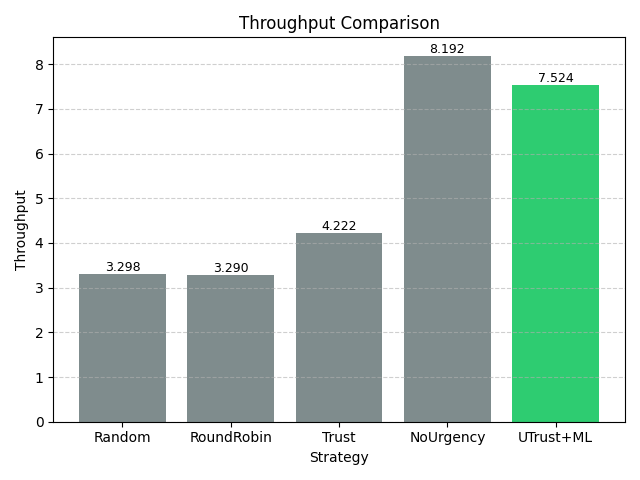
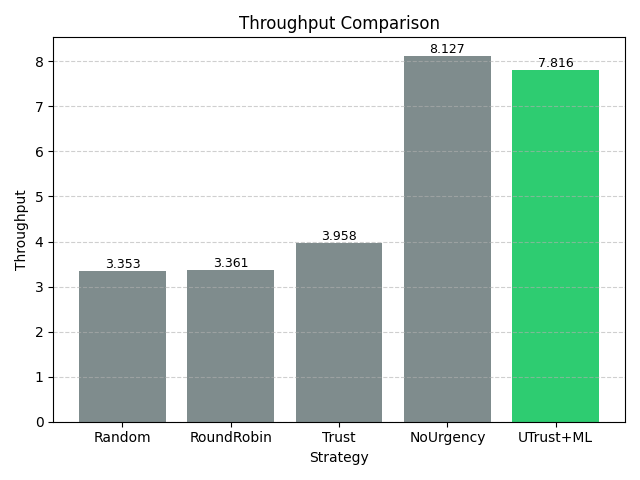
v12: Added evaluation plots and variability analysis

diff --git a/i_visualization/plots.py b/i_visualization/plots.py
@@ -14,7 +14,6 @@ scalability_path = os.path.join(root_path, "scalability_results.csv")
 
 detailed_path = os.path.join(root_path, "detailed_runs.csv")
 
-
 # -----------------------------
 # SAFETY CHECK
 # -----------------------------
@@ -29,6 +28,8 @@ if not os.path.exists(detailed_path):
     detailed_available = False
 else:
     detailed_available = True
+
+detailed = pd.read_csv(detailed_path)
 
 # -----------------------------
 # LOAD DATA
@@ -194,6 +195,126 @@ if detailed_available:
     plt.tight_layout()
     plt.savefig(os.path.join(base_path, "detailed_runs_combined.png"))
 
+
+
+# -----------------------------
+# BOX PLOTS (STABILITY)
+# -----------------------------
+for metric in ["latency", "throughput", "fairness"]:
+    plt.figure()
+
+    detailed.boxplot(column=metric, by="strategy")
+
+    plt.title(f"{metric.capitalize()} Distribution (Box Plot)")
+    plt.suptitle("")  # removes default pandas title
+    plt.xlabel("Strategy")
+    plt.ylabel(metric.capitalize())
+
+    plt.grid(axis='y', linestyle='--', alpha=0.6)
+    plt.tight_layout()
+
+    plt.savefig(os.path.join(base_path, f"{metric}_boxplot.png"))
+
+
+
+# -----------------------------
+# VIOLIN PLOTS (DISTRIBUTION SHAPE)
+# -----------------------------
+import seaborn as sns
+
+for metric in ["latency", "throughput", "fairness"]:
+    plt.figure()
+
+    sns.violinplot(x="strategy", y=metric, data=detailed)
+
+    plt.title(f"{metric.capitalize()} Distribution (Violin Plot)")
+    plt.xlabel("Strategy")
+    plt.ylabel(metric.capitalize())
+
+    plt.grid(axis='y', linestyle='--', alpha=0.6)
+    plt.tight_layout()
+
+    plt.savefig(os.path.join(base_path, f"{metric}_violin.png"))
+
+
+
+# -----------------------------
+# ERROR BAR PLOT (MEAN ± STD)
+# -----------------------------
+grouped = detailed.groupby("strategy").agg({
+    "latency": ["mean", "std"],
+    "throughput": ["mean", "std"],
+    "fairness": ["mean", "std"]
+})
+
+grouped.columns = ["_".join(col) for col in grouped.columns]
+grouped = grouped.reset_index()
+
+for metric in ["latency", "throughput", "fairness"]:
+    plt.figure()
+
+    means = grouped[f"{metric}_mean"]
+    stds = grouped[f"{metric}_std"]
+
+    plt.errorbar(
+        grouped["strategy"],
+        means,
+        yerr=stds,
+        fmt='o',
+        capsize=5
+    )
+
+    plt.title(f"{metric.capitalize()} (Mean ± Std)")
+    plt.xlabel("Strategy")
+    plt.ylabel(metric.capitalize())
+
+    plt.grid(axis='y', linestyle='--', alpha=0.6)
+    plt.tight_layout()
+
+    plt.savefig(os.path.join(base_path, f"{metric}_errorbar.png"))
+
+
+
+# -----------------------------
+# RUN-WISE CONSISTENCY PLOTS
+# -----------------------------
+for metric in ["latency", "throughput", "fairness"]:
+    plt.figure()
+
+    for strategy in detailed["strategy"].unique():
+        subset = detailed[detailed["strategy"] == strategy]
+
+        plt.plot(
+            subset["run"],
+            subset[metric],
+            marker='o',
+            label=strategy
+        )
+
+    plt.title(f"{metric.capitalize()} Across Runs")
+    plt.xlabel("Run ID")
+    plt.ylabel(metric.capitalize())
+    plt.legend()
+
+    plt.grid(linestyle='--', alpha=0.6)
+    plt.tight_layout()
+
+    plt.savefig(os.path.join(base_path, f"{metric}_runs.png"))
+
+
+# -----------------------------
+# CORRELATION HEATMAP
+# -----------------------------
+plt.figure()
+
+corr = detailed[["latency", "throughput", "fairness"]].corr()
+
+sns.heatmap(corr, annot=True, cmap="coolwarm")
+
+plt.title("Metric Correlation")
+plt.tight_layout()
+
+plt.savefig(os.path.join(base_path, "correlation_heatmap.png"))
 
 
 # -----------------------------

diff --git a/h_metrics/experiment_runner.py b/h_metrics/experiment_runner.py
@@ -51,7 +51,7 @@ from h_metrics.metrics import (
 # CONFIG
 # -----------------------------
 SIM_TIME = 100
-RUNS = 5
+RUNS = 20
 
 
 # Stores per-run results
